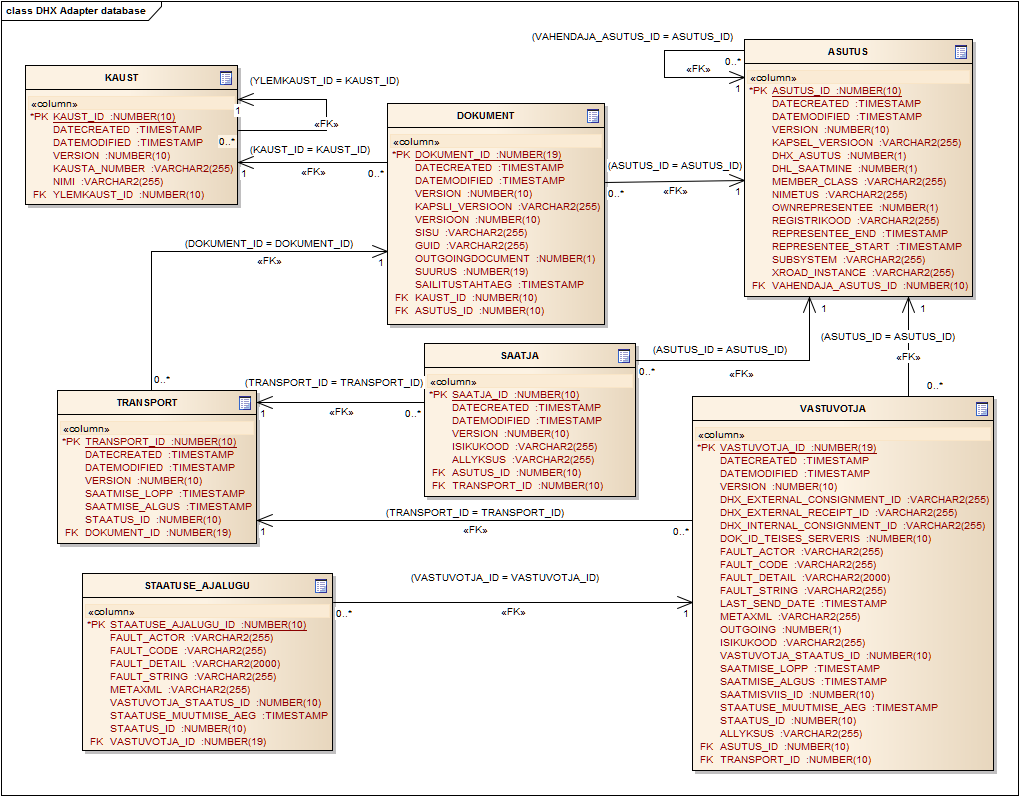
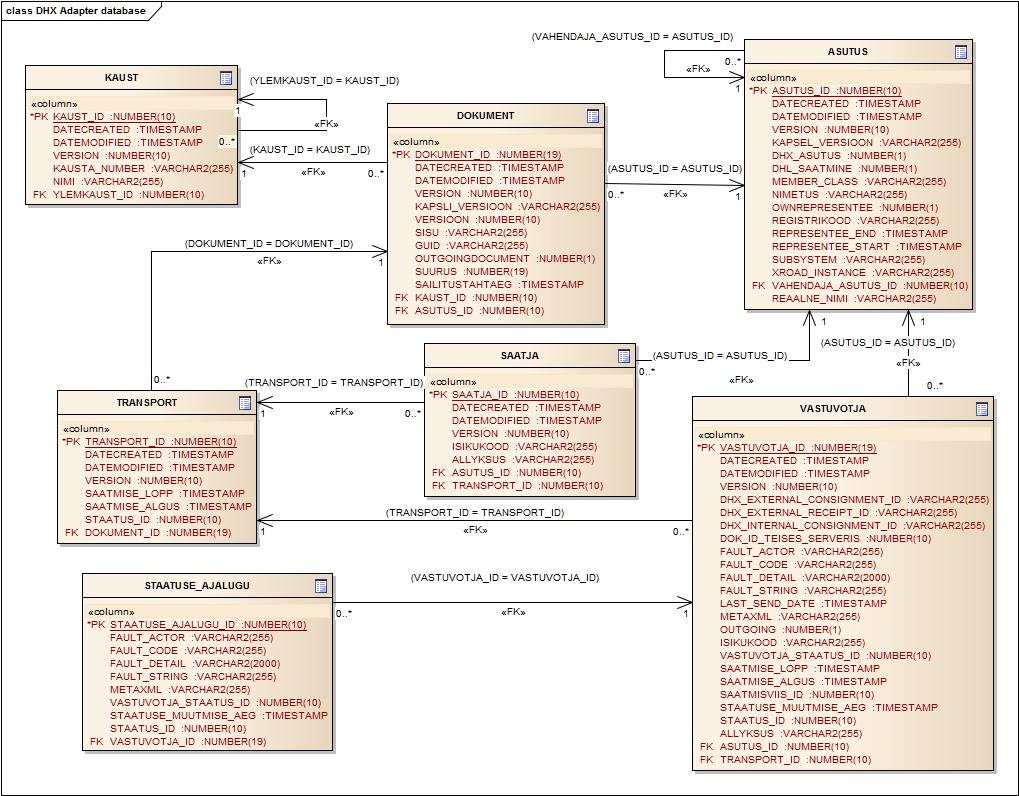
juhend

Changed region(s): [[0.6389, 0.3618, 0.9735, 0.4824], [0.578, 0.1809, 0.7301, 0.2412]]

diff --git a/docs/adapter-server-kasutusjuhend.md b/docs/adapter-server-kasutusjuhend.md
@@ -252,7 +252,7 @@ See sisaldab asutuse kohta kolme välja:
 Märkus:
 > Asutusel kellel on kasutusel mitu [DHX alamsüsteemi](https://e-gov.github.io/DHX/#55-reserveeritud-nimi-dhx), näiteks alamsüsteem `DHX.viru`, väljastatakse nimi kujul: `Asutuse nimi (DHX.viru)`.
 > 
-> DHS kasutajale arusaadavama alamsüsteemi nime võib määrata, määrates DHX adpaterserveri andmebaasis (vaata [andmebaasi mudelit](adapter-server-haldusjuhend.md#41-andmebaasi-mudel)) välja ASUTUS.reaalne_nimi väärtuseks õige nime, näiteks `Viru Ringkonnaprokuratuur`.
+> DHS kasutajale arusaadavama alamsüsteemi nime võib määrata, määrates DHX adpaterserveri andmebaasis (vaata [andmebaasi mudelit](adapter-server-haldusjuhend.md#41-andmebaasi-mudel)) välja `ASUTUS.reaalne_nimi` väärtuseks õige nime, näiteks `Viru Ringkonnaprokuratuur`.
 
 Ülejäänud DVK poolt tagastatavaid välju (`<ks_asutuse_regnr/>`, `<allyksused>`, `<ametikohad>`) DHX adapterserver kunagi ei tagasta.
 Kui asutuse DHS süsteem neid vana DVK korral kasutas, siis DHX protokollile üle kolimisel peaks ta need kusagilt mujalt küsima.
